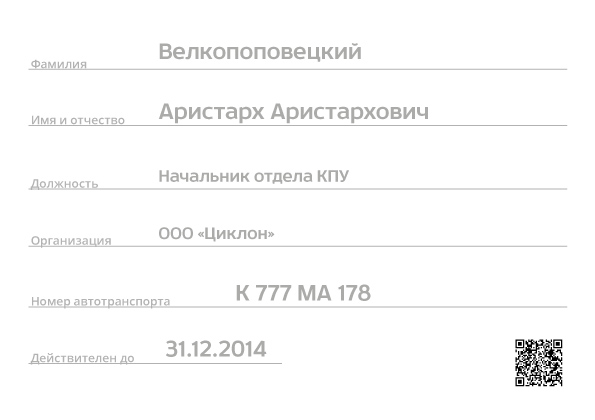
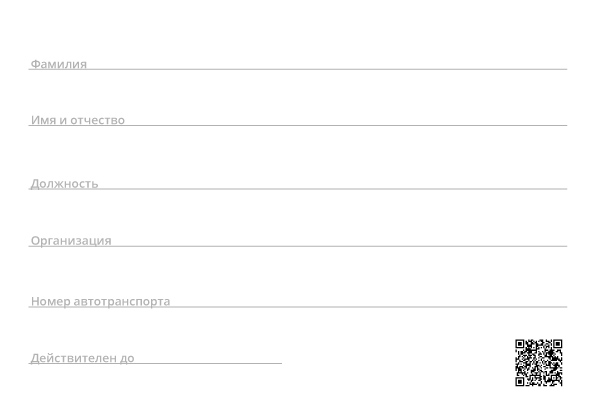
pirmit front

diff --git a/app/pdfs/permit_pdf.rb b/app/pdfs/permit_pdf.rb
@@ -10,6 +10,8 @@ class PermitPdf < Prawn::Document
     super(margin: 0, :page_size => [595, 420])
     @permit = permit
     @view = view
+    @drivers = @permit.vehicle.users
+    @driver = @drivers.first
     russian_font
     
 
@@ -24,8 +26,17 @@ class PermitPdf < Prawn::Document
     draw_text "#{@permit.vehicle.register_sn}", :size => 80, :at => [44,100]
     draw_text "#{@permit.vehicle.sn_region}", :size => 55, :at => [288,117]
     
+    start_new_page
+    font "Verdana"
     float {image "#{Rails.root}/app/assets/images/пропуск_front.jpg"}
-
+    draw_text "#{@driver.last_name}", :size => 20, :at => [160,360]
+    draw_text "#{@driver.first_name}   #{@driver.middle_name}", :size => 20, :at => [160,300]
+    draw_text "#{@driver.position}", :size => 20, :at => [160,237]
+    draw_text "#{Organization.find(@driver.organization_id).title}", :size => 20, :at => [160,180]
+    draw_text "#{@permit.vehicle.register_sn} #{@permit.vehicle.sn_region}", :size => 20, :at => [240,120]
+    draw_text "#{@permit.expiration_date.strftime('%d.%m.%y')}", :size => 20, :at => [165,65]
+    
+    
     # text "#{@permit.vehicle.vehicle_title}", :size => 15
     # text "#{@permit.start_date.strftime('%d.%m.%y')} - #{@permit.expiration_date.strftime('%d.%m.%y')}", :size => 15
   end
